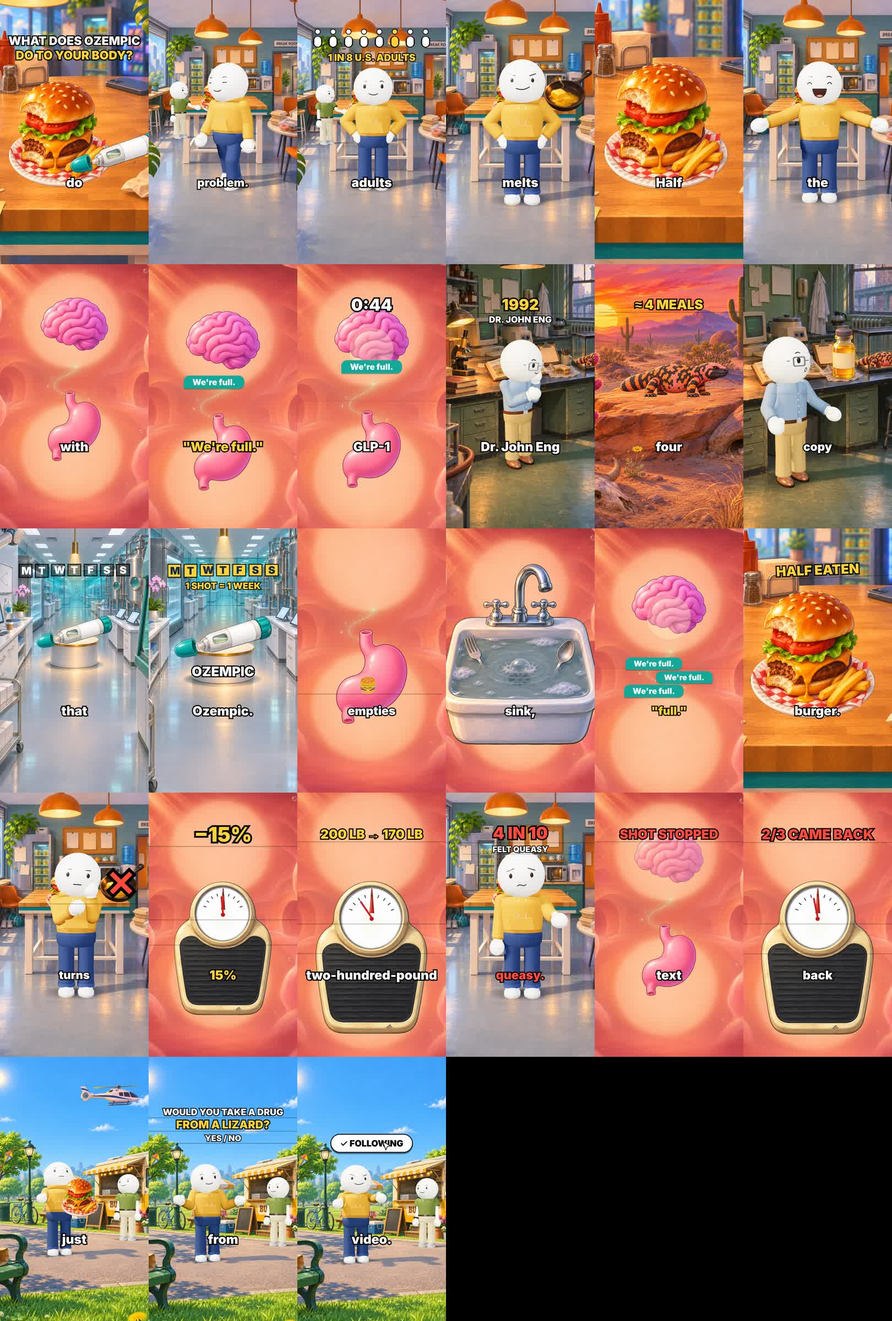
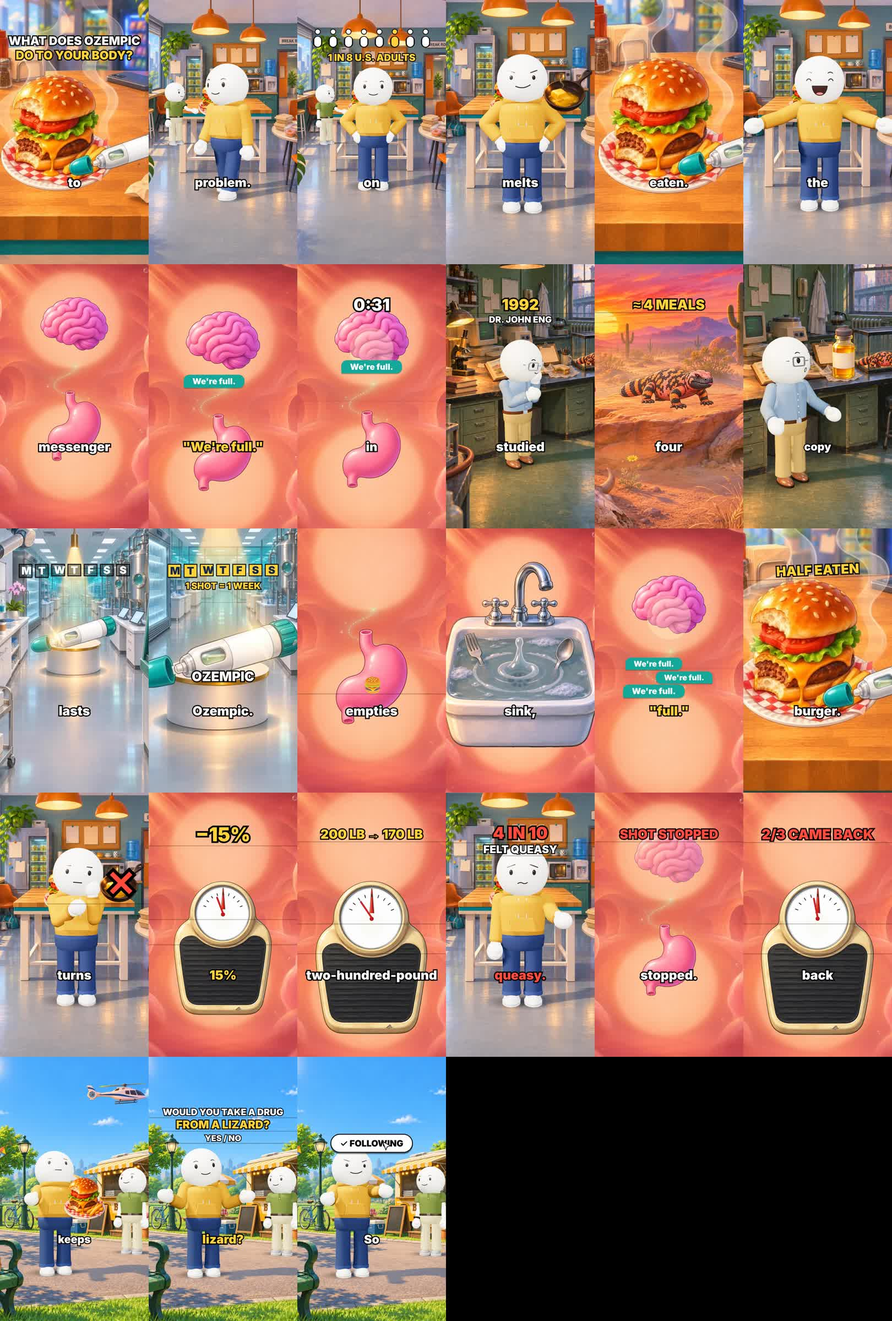
ozempic: Wan 480p inserts C2-C4 wired in, post kit, shot list + sources note the clips
Claude-Session: https://claude.ai/code/session_01HD3jrLPLSZxLcSNLaz6fry

diff --git a/videos/ozempic/scene.js b/videos/ozempic/scene.js
@@ -49,7 +49,7 @@
   }
 
   // OpenArt Wan 3.0 480p inserts (image-to-video from our paintings + props; no cast). Frames in art/C<n>/0001.jpg.. (30 fps)
-  const USE = { C1: true, C2: false, C3: false, C4: false };
+  const USE = { C1: true, C2: true, C3: true, C4: true };
   const CLIPS = { C1: { clip: 'C1/', n: 90, fps: 30, light: 'day' }, C2: { clip: 'C2/', n: 90, fps: 30, light: 'interior' },
     C3: { clip: 'C3/', n: 120, fps: 30, light: 'interior' }, C4: { clip: 'C4/', n: 60, fps: 30, light: 'interior' } };
   const pl = (c, fallback) => USE[c] ? c : fallback;
@@ -84,7 +84,7 @@
       { at: 'chunky', plate: pl('C1', '04'), zoom: [1.0, 1.05], focus: [[.5, .55], [.5, .55]] },
       { at: 'venom', plate: '05', zoom: [1.2, 1.3], focus: [[.55, .5], [.58, .5]] },
       { at: 'week', plate: pl('C3', '06'), zoom: [1.0, 1.1], focus: [[.5, .5], [.5, .48]] },
-      { at: 'ozempic', plate: pl('C3', '06'), zoom: [1.3, 1.38], focus: [[.5, .45], [.5, .45]], clipFrom: 2.4 },
+      { at: 'ozempic', plate: pl('C3', '06'), zoom: [1.0, 1.04], focus: [[.55, .45], [.55, .45]], clipFrom: 2.4 },
       { at: 'stomach', plate: '03', zoom: [1.1, 1.2], focus: [[.5, .62], [.5, .62]] },
       { at: 'sink', plate: pl('C4', '03'), zoom: [1.0, 1.06], focus: [[.5, .5], [.5, .5]] },
       { at: 'brain', plate: '03', zoom: [1.1, 1.15], focus: [[.5, .45], [.5, .38]] },
@@ -174,7 +174,7 @@
           for (let i = 0; i < 7; i++) { const on = id === 'ozempic' || t > tw + i * .12, x = 540 + (i - 3) * 118;
             txt(K, days[i], { x, y: 300, size: 76, color: on ? '#14284f' : '#fff', stroke: 0, shadow: false, w: 100, border: '6px solid #000' }).style.background = on ? '#ffd23a' : 'rgba(0,0,0,.35)'; }
           txt(K, '1 SHOT = 1 WEEK', { y: 420, size: 66, color: 'gold', scale: popIn(K, t, tw + .9), a: id === 'week' && t < tw + .9 ? 0 : 1 });
-          if (id === 'ozempic') { txt(K, 'OZEMPIC', { x: pp.x, y: pp.y + 150 * ps, size: 96, scale: popIn(K, t, at('ozempic') + .1) }); }
+          if (id === 'ozempic') { txt(K, 'OZEMPIC', { x: cl ? 540 : pp.x, y: cl ? 1080 : pp.y + 150 * ps, size: 96, scale: popIn(K, t, at('ozempic') + .1) }); }
           break; }
         case 'stomach': case 'sink': {
           if (id === 'stomach') { const sq = 1 + .03 * Math.sin(t * 1.2); stomach(K, { w: 400 * s * sq });

diff --git a/videos/ozempic/shotlist.md b/videos/ozempic/shotlist.md
@@ -26,7 +26,14 @@ as accent) → 05 1992 hospital lab (amber lamp + institutional green, glowing a
 white + teal, one gold accent on the pen) → 07 noon food-truck park (bright blue sky, warm sun, Doug's mustard as accent).
 **Angles:** 01 eye-level wide across the break room · 02 low close detail on the counter · 03 straight-on diagram · 04 low wide,
 lizard's-eye level · 05 over-the-bench lab angle · 06 high angle down a clean lab line · 07 low wide from the grass with big sky.
-**OpenArt:** none needed (no water, fire or crowds; the sink and the body are props/diagram the engine animates).
+**OpenArt (Brian, Nov 23: "make using Wan 480"):** 4 image-to-video inserts, Wan 3.0, 480p, standard, no audio (240 credits total).
+Start frames = our paintings + props composited (`clips/C*_start.png`); no cast in clips; frames in `art/C1..C4/`.
+| Clip | Shots | Start frame | Motion | Credits |
+|---|---|---|---|---|
+| C1 (test) | chunky | 04 desert + P05 lizard | lizard breathes, turns, tongue flick; heat shimmer; push-in | 60 (3 s) |
+| C2 | q, burger, clue | 02 counter + P02 burger + P01 pen | steam curls, cheese drips; slow push-in | 60 (3 s) |
+| C3 | week, ozempic | 06 lab + P01 pen on the stand | robot arm moves, pen glints; push-in | 80 (4 s) |
+| C4 | sink | 03 backdrop + P07 sink | water swirls, one glug, doesn't drain | 40 (2 s) |
 
 ## Images
 | # | File | What |

diff --git a/videos/ozempic/post.md b/videos/ozempic/post.md
@@ -1,0 +1,17 @@
+# Post kit: ozempic
+
+**Slot:** any open slot (12:00 or 21:00 ET is best: timely, search-driven), ≥ 3 h from any other post.
+**Length:** ~1:07 (over the 1:02 payout line).
+
+## TikTok / Reels caption
+What does Ozempic do to the body?
+It started with a desert lizard that eats four meals a year. Doug still thinks it melts fat.
+#ozempic #glp1 #wegovy #learnontiktok #explained
+
+## YouTube Shorts title
+What does Ozempic do to the body? It started with a lizard #shorts
+
+## Notes
+- Explains how the drug works; no advice on who should take it. If a comment asks "should I take it?", reply: "That's one for your doctor. I just explain the lizard part."
+- First comment to pin: "Would you take a drug from a lizard? Yes or no 👇"
+- 4 short AI inserts (lizard, burger steam, lab, sink) were made with OpenArt Wan 3.0 from our own paintings. If a platform asks, tick "AI-generated content".

diff --git a/videos/ozempic/sources.md b/videos/ozempic/sources.md
@@ -31,3 +31,7 @@ search-result abstracts of the papers/pages listed (PubMed/PMC, KFF). Brian can 
 - Mounjaro (tirzepatide) copies GLP-1 plus a second gut hormone (GIP); left out for length (one idea per line).
 - Eng's VA patent story (VA declined to patent; he patented and licensed it to Amylin): details differ by source.
 - No advice on who should take or stop these drugs.
+
+## AI video inserts (not facts; illustration)
+- 4 short clips made with OpenArt Wan 3.0 (image-to-video, 480p) from our own ChatGPT paintings: the lizard on the rock, the burger,
+  the lab pen, the clogged sink. No real people. Personal Project → Uncategorized on OpenArt.
